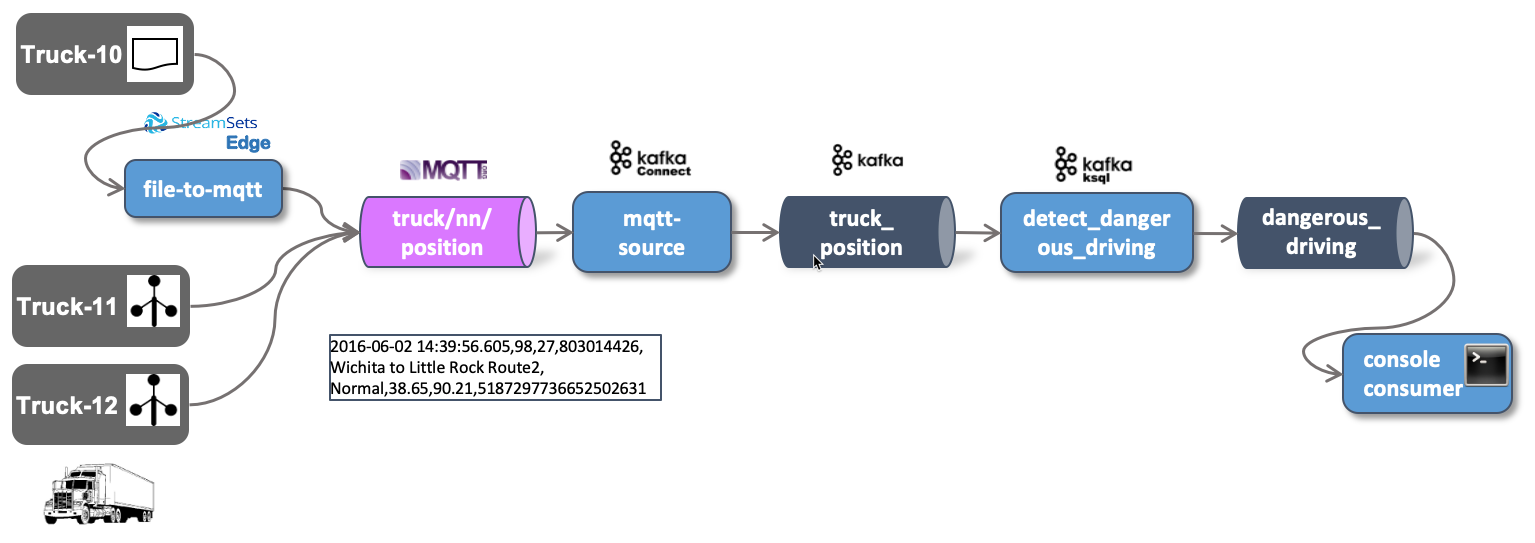
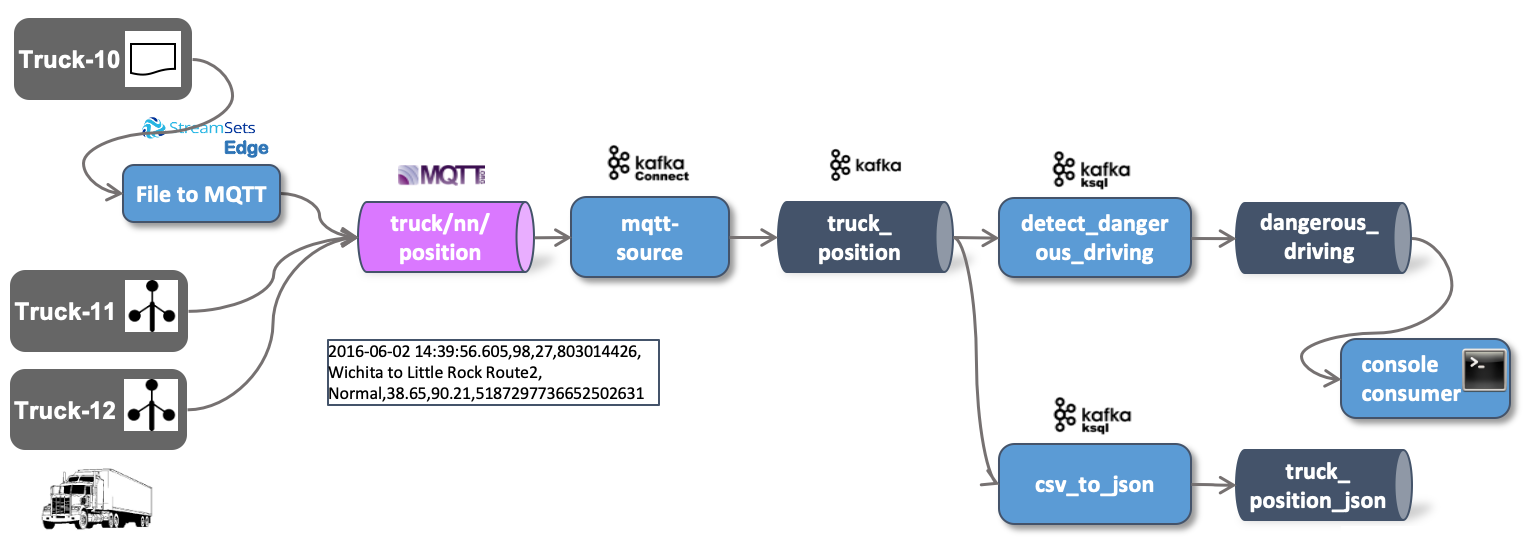
update

diff --git a/05c-stream-processing-using-ksql/README.md b/05c-stream-processing-using-ksql/README.md
@@ -1,10 +1,12 @@
-# IoT Data Ingestion - Stream Processing using ksqlDB
+# IoT Data Ingestion and Analytics - Stream Processing using ksqlDB
 
 With the truck data continuously ingested into the `truck_movement` topic, let's now perform some stream processing on the data.
  
 There are many possible solutions for performing analytics directly on the event stream. From the Kafka ecosystem, we can either use Kafka Streams or ksqlDB, a SQL abstraction on top of Kafka Streams. For this workshop we will be using KSQL. 
 
 ![Alt Image Text](./images/stream-processing-with-ksql-overview.png "Schema Registry UI")
+
+We will first use KSQL to change the format of the messages from CSV to JSON and write it to a new topic. With another KSQL statement we will detect drivers not driving around normally (detecting anomalies). 
 
 ## Connect to ksqlDB engine
  
@@ -58,9 +60,9 @@ ksqlDB can be used for doing ad-hoc queries as well as running continuous querie
 Before we can use a KSQL SELECT statement and consume data from a data stream, we have to give the data in the `truck_position` topic a "face", by defining the structure of the data. We do that using the `CREATE STREAM ...` command, as shown below: 
 
 ```
-DROP STREAM truck_position_s;
+DROP STREAM truck_position_csv_s;
 
-CREATE STREAM truck_position_s
+CREATE STREAM truck_position_csv_s
   (ts VARCHAR,
    truckId VARCHAR,
    driverId BIGINT,
@@ -73,7 +75,115 @@ CREATE STREAM truck_position_s
         value_format='DELIMITED');
 ```
 
-With the `truck_position_s` Stream in place, we can use the `SELECT` statement to query live messages while they are being sent to the Kafka topic. 
+We can see from the `value_format` clause that the data in the topic `truck_position` is delimited. 
+
+With the `truck_position_csv_s` Stream in place, we can use the `SELECT` statement to query live messages while they are being sent to the Kafka topic. 
+
+```
+SELECT * FROM truck_position_csv_s EMIT CHANGES;
+```
+
+`EMIT CHANGES` is necessary as it should be a _push query_ that produces a continuously updating stream of current vehicle position coordinates, not just the current state.
+
+The output we get should be similar as shown below:
+
+```
+ksql> select * from truck_position_csv_s emit changes;
++---------------+---------------+---------------+---------------+---------------+---------------+---------------+---------------+---------------+
+|ROWKEY         |TS             |TRUCKID        |DRIVERID       |ROUTEID        |EVENTTYPE      |LATITUDE       |LONGITUDE      |CORRELATIONID  |
++---------------+---------------+---------------+---------------+---------------+---------------+---------------+---------------+---------------+
+|"truck/30/|�15928902|30             |24             |137128276      |Normal         |40.76          |-88.77         |-18829803938785|
+|position0     |08758          |               |               |               |               |               |               |60716          |
+|"truck/12/|�15928902|12             |20             |1927624662     |Normal         |42.21          |-88.64         |-18829803938785|
+|position0     |08858          |               |               |               |               |               |               |60716          |
+|"truck/29/|�15928902|29             |18             |1565885487     |Normal         |39.76          |-90.14         |-18829803938785|
+|position0     |08878          |               |               |               |               |               |               |60716          |
+|"truck/21/|�15928902|21             |28             |160405074      |Normal         |39.76          |-90.14         |-18829803938785|
+|position0     |08938          |               |               |               |               |               |               |60716          |
+|"truck/10/|�15928902|10             |12             |160405074      |Normal         |35.1           |-90.07         |-18829803938785|
+|position0     |09148          |               |               |               |               |               |               |60716          |
+```
+
+As long as we don't stop the query, we get a constant stream of new truck messages.
+
+We can also see that we get a nicely formatted structure back. Compare that to the output of the console consumer or kafkacat. 
+
+```
+> kafkacat -b dataplatform -t truck_position -o end
+% Auto-selecting Consumer mode (use -P or -C to override)
+% Reached end of topic truck_position [0] at offset 16217
+% Reached end of topic truck_position [2] at offset 11528
+% Reached end of topic truck_position [1] at offset 9134
+�1592890510688,29,18,1565885487,Normal,39.77,-93.33,-1882980393878560716
+% Reached end of topic truck_position [3] at offset 13149
+% Reached end of topic truck_position [6] at offset 14709
+�1592890510718,35,16,987179512,Normal,41.72,-91.05,-1882980393878560716
+% Reached end of topic truck_position [0] at offset 16218
+% Reached end of topic truck_position [5] at offset 8971
+% Reached end of topic truck_position [4] at offset 17870
+% Reached end of topic truck_position [6] at offset 14710
+�1592890510827,22,10,1090292248,Normal,36.25,-95.69,-1882980393878560716
+�1592890510870,27,14,1594289134,Normal,34.96,-91.14,-1882980393878560716
+% Reached end of topic truck_position [1] at offset 9135
+�1592890510912,10,12,160405074,Normal,38.98,-93.2,-1882980393878560716
+% Reached end of topic truck_position [4] at offset 17871
+�1592890510947,25,23,160779139,Normal,41.56,-90.64,-1882980393878560716
+% Reached end of topic truck_position [2] at offset 11529
+�1592890510988,33,17,803014426,Normal,39.1,-94.44,-1882980393878560716
+% Reached end of topic truck_position [1] at offset 9136
+�1592890510992,30,24,137128276,Normal,41.74,-91.47,-1882980393878560716
+�1592890511027,14,15,1567254452,Normal,41.71,-91.32,-1882980393878560716
+% Reached end of topic truck_position [7] at offset 16060
+% Reached end of topic truck_position [6] at offset 14711
+�1592890511035,28,31,1594289134,Normal,41.48,-88.07,-1882980393878560716
+```
+
+### Transform the data in JSON
+
+With KSQL it is very easy to translate this into Json format. We just have to create a new stream using the `CREATE STREAM ...` statement using the same SQL statement and specify `JSON` as the `value_format`:
+
+```
+DROP STREAM IF EXISTS truck_position_json_s DELETE TOPIC;
+
+CREATE STREAM truck_position_json_s
+  WITH (kafka_topic='truck_position_json',
+        value_format='JSON', 
+        partitions=8, replicas=3)
+AS 
+SELECT * 
+FROM truck_position_csv_s
+EMIT CHANGES;
+```
+
+With the `CREATE STREAM` statement you don't have to create the topic first. It will be created based on the properties specified in the `WITH` clause. 
+
+With the new stream in place, we can now check the new topic `truck_position_json` to see that it contains in fact messages in JSON. 
+
+```
+> kafkacat -b dataplatform -t truck_position_json -o end -q
+{"TS":"\u0000\u0000\u0000\u0000\u0002�\u00011592891235888","TRUCKID":"21","DRIVERID":28,"ROUTEID":160405074,"EVENTTYPE":"Normal","LATITUDE":35.21,"LONGITUDE":-90.37,"CORRELATIONID":"-1882980393878560716"}
+{"TS":"\u0000\u0000\u0000\u0000\u0002�\u00011592891235998","TRUCKID":"22","DRIVERID":10,"ROUTEID":1090292248,"EVENTTYPE":"Normal","LATITUDE":42.25,"LONGITUDE":-88.96,"CORRELATIONID":"-1882980393878560716"}
+{"TS":"\u0000\u0000\u0000\u0000\u0002�\u00011592891236038","TRUCKID":"34","DRIVERID":22,"ROUTEID":1384345811,"EVENTTYPE":"Normal","LATITUDE":38.43,"LONGITUDE":-90.35,"CORRELATIONID":"-1882980393878560716"}
+{"TS":"\u0000\u0000\u0000\u0000\u0002�\u00011592891236138","TRUCKID":"20","DRIVERID":30,"ROUTEID":1198242881,"EVENTTYPE":"Normal","LATITUDE":41.72,"LONGITUDE":-91.05,"CORRELATIONID":"-1882980393878560716"}
+{"TS":"\u0000\u0000\u0000\u0000\u0002�\u00011592891236168","TRUCKID":"24","DRIVERID":32,"ROUTEID":1962261785,"EVENTTYPE":"Normal","LATITUDE":35.37,"LONGITUDE":-94.57,"CORRELATIONID":"-1882980393878560716"}
+```
+
+----
+**Note:** if you need to drop a STREAM you might get an `Cannot drop XXXX` error message:
+
+```
+Cannot drop TRUCK_POSITION_JSON_S.
+The following queries read from this source: [].
+The following queries write into this source: [CSAS_TRUCK_POSITION_JSON_S_9].
+You need to terminate them before dropping TRUCK_POSITION_JSON_S.
+```
+
+to solve the problem, just use the `TERMINATE` statement to stop the query(s) mentioned in the error message:
+
+```
+TERMINATE CSAS_TRUCK_POSITION_JSON_S_9;
+```
+---
 
 ### Using KSQL to find abnormal driver behaviour
 

diff --git a/07_stream-processing-using-spark/README.md b/07_stream-processing-using-spark/README.md
@@ -1,0 +1,176 @@
+# IoT Data Ingestion and Analytics - Stream Processing using Spark Structured Streaming
+
+With the truck data continuously ingested into the `truck_movement` topic, let's now perform some stream processing on the data.
+ 
+There are many possible solutions for performing analytics directly on the event stream. From the Kafka ecosystem, we can either use Kafka Streams or ksqlDB, a SQL abstraction on top of Kafka Streams. For this workshop we will be using KSQL. 
+
+![Alt Image Text](./images/stream-processing-with-spark-overview.png "Schema Registry UI")
+
+## Using Python
+
+### Define Schema for truck_position events/messages
+
+```python
+%pyspark
+from pyspark.sql.types import *
+
+truckPositionSchema = StructType().add("timestamp", TimestampType()).add("truckId",LongType()).add("driverId", LongType()).add("routeId", LongType()).add("eventType", StringType()).add("latitude", DoubleType()).add("longitude", DoubleType()).add("correlationId", StringType()) 
+```
+
+### Kafka Consumer
+
+```python
+rawDf = spark
+  .readStream
+  .format("kafka")
+  .option("kafka.bootstrap.servers", "kafka-1:19092,kafka-2:19093")
+  .option("subscribe", "truck_position")
+  .load()
+```
+
+### Show the schema of the raw Kafka message
+
+```python
+rawDf.printSchema
+```
+
+### Map to "truck_position" schema and extract event time (trunc to seconds)  
+```python
+%pyspark
+from pyspark.sql.functions import from_json
+
+jsonDf = rawDf.selectExpr("CAST(value AS string)")
+jsonDf = jsonDf.select(from_json(jsonDf.value, truckPositionSchema).alias("json")).selectExpr("json.*", "cast(cast (json.timestamp as double) / 1000 as timestamp) as eventTime")
+```
+
+### Show schema of data frame 
+```python
+%pyspark
+jsonDf.printSchema
+```
+
+### Run 1st query into in memory "table"
+
+```python
+%pyspark
+query1 = jsonDf.writeStream.format("memory").queryName("truck_position").start()
+```
+
+### Using Spark SQL to read from the in-memory "table"
+
+```python
+%pyspark
+spark.sql ("select * from truck_position").show()
+```
+
+or in Zeppelin using the %sql directive
+
+```sql
+%sql
+select * from truck_position
+
+```
+
+### Stop the query
+
+```python
+%pyspark
+query1.stop()
+```
+
+### Filter out normal events
+
+```python
+%pyspark
+jsonDf.printSchema
+jsonFilteredDf = jsonDf.where("json.eventType !='Normal'")
+```
+
+### Run 2nd query on filtered data into in memory "table"
+
+```python
+%pyspark
+query2 = jsonFilteredDf.writeStream.format("memory").queryName("filtered_truck_position").start()
+```
+
+### Use Spark SQL
+
+```python
+%pyspark
+spark.sql ("select * from filtered_truck_position2").show()  
+```
+
+### Stop 2nd query
+
+```python
+%pyspark
+query2.stop
+```
+
+### Run 3rd query - Write non-normal events to Kafka topic
+
+Create a new topic
+
+```
+docker exec -ti kafka-1 kafka-topics --create --zookeeper zookeeper-1:2181 --topic dangerous_driving_spark --partitions 8 --replication-factor 3
+```
+
+```python
+%pyspark
+query3 = jsonFilteredDf.selectExpr("to_json(struct(*)) AS value").writeStream.format("kafka").option("kafka.bootstrap.servers", "kafka-1:19092").option("topic","dangerous_driving_spark").option("checkpointLocation", "/tmp").start()    
+```
+
+### Stop 3rd query
+
+```python
+query3.stop
+```
+
+### Retrieve static driver information
+
+```python
+%pyspark
+val opts = Map(
+  "url" -> "jdbc:postgresql://postgresql/sample?user=sample&password=sample",
+  "driver" -> "org.postgresql.Driver",
+  "dbtable" -> "driver")
+driverRawDf = spark.read.format("jdbc").options(opts).load()  
+driverDf = driverRawDf.selectExpr("id as driverId", "first_name as firstName", "last_name as lastName")
+```
+
+
+## Using Scala
+
+### Define the Schema
+
+```scala
+import org.apache.spark.sql.types.StructType
+import org.apache.spark.sql.types.StringType
+import org.apache.spark.sql.types.DoubleType
+import org.apache.spark.sql.types.LongType
+import org.apache.spark.sql.types.TimestampType
+
+val truckPositionSchema = new StructType() 
+  .add("timestamp",  TimestampType) 
+  .add("truckId", LongType) 
+  .add("driverId", LongType) 
+  .add("routeId", LongType) 
+  .add("eventType", StringType) 
+  .add("latitude", DoubleType) 
+  .add("longitude", DoubleType) 
+  .add("correlationId", StringType) 
+```
+
+```scala
+val rawDf = spark
+  .readStream
+  .format("kafka")
+  .option("kafka.bootstrap.servers", "kafka-1:19092,kafka-2:19093")
+  .option("subscribe", "truck_position")
+  .load()
+```
+
+
+----
+
+[previous part](../05b-iot-data-ingestion-mqtt-to-kafka/README.md)	| 	[top](../05-iot-data-ingestion-and-analytics/README.md) 	| 	[next part](../05d-static-data-ingestion/README.md)

diff --git a/05a-iot-data-ingestion-into-mqtt/README.md b/05a-iot-data-ingestion-into-mqtt/README.md
@@ -1,4 +1,4 @@
-# IoT Data Ingestion - Sending to MQTT
+# IoT Data Ingestion and Analytics - Sending to MQTT
 
 In this part we will be ingesting the IoT data stream into MQTT first, so that it can be later consumed and moved to a central Kafka topic. The MQTT brokers would act as IoT Gateways, implemented decentrally, whereas the Kafka Topic later will be a central deployment. This is a scenario which makes a lot of sense in real-live for various reasons such as security, connectivity, more lightweight connections and others. 
 
@@ -30,7 +30,7 @@ You have to be in the `docker` folder of the dataplatform, where also the `docke
 docker run -v "${PWD}/data-transfer/logs:/out" --rm trivadis/iot-truck-simulator '-s' 'FILE' '-f' 'CSV' '-d' '2000' '-fs' '25' '-vf' '10' '-fpv'
 ```
 
-We only generate data for vehicle with id `10` into a file in the `/data-transfer/logs` folder using the **CSV** format.
+We only generate data for vehicle with id `10` into a file in the `/data-transfer/logs` folder using the **CSV** format. The flag `-fpv` specifies to write one file per vehicle. 
 
 You should see an output similar to the one below, signalling that messages are produced to MQTT. 
 
@@ -170,12 +170,12 @@ Now let's run the simulator for trucks with id 11 - 70.
 The MQTT broker is exposed on port `1883`. So let's run the following docker command in a new terminal window.
 
 ```
-docker run trivadis/iot-truck-simulator '-s' 'MQTT' '-h' $DOCKER_HOST_IP '-p' '1883' '-f' 'CSV' '-d' '2000' '-fs' '25' '-vf' '11-70' '-fpv'
+docker run trivadis/iot-truck-simulator '-s' 'MQTT' '-h' $DOCKER_HOST_IP '-p' '1883' '-f' 'CSV' '-d' '2000' '-fs' '25' '-vf' '11-70'
 ```
 
 We are also producing the data in **CSV** format to the broker running on the docker host on port 1883. 
 
-You should see an output similar to the one below, signaling that messages are produced to MQTT. 
+You should see an output similar to the one below, signalling that messages are produced to MQTT. 
 
 ```
 Number of Emitters is .....23

diff --git a/05d-static-data-ingestion/README.md b/05d-static-data-ingestion/README.md
@@ -1,4 +1,4 @@
-# IoT Data Ingestion - Ingesting and Joining Static Data to Stream
+# IoT Data Ingestion and Analytics - Ingesting and Joining Static Data to Stream
 
 So far we have ingested the truck data from MQTT to Kafka and detected dangerous driving behaviour. But the information only holds the `driverId` but no other information about the driver. 
 
@@ -308,3 +308,7 @@ and check the live stream to see the change.
 |1580450886238       |11                  |11                  |Slow Down Mickey    |Isaacson            |101                 |1962261785          |Overspeed           |40.38               |-89.17              |
 ...
 ```
+
+----
+
+[previous part](../05c-stream-processing-using-ksql/README.md)	| 	[top](../05-iot-data-ingestion-and-analytics/README.md) 	| 	[next part](../05e-stream-data-integration-with-s3/README.md)

diff --git a/05b-iot-data-ingestion-mqtt-to-kafka/README.md b/05b-iot-data-ingestion-mqtt-to-kafka/README.md
@@ -1,4 +1,4 @@
-# IoT Data Ingestion - Moving Data from MQTT to Kafka
+# IoT Data Ingestion and Analytics - Moving Data from MQTT to Kafka
 
 In this 2nd part of the workshop we we will be moving the data from MQTT into Kafka, so that it can be consumed using the Kafka console consumer, as a preparation for stream analytics to be done in a later part. The data has been sent to MQTT in the first part of this workshop. 
 

diff --git a/05e-stream-data-integration-with-s3/README.md b/05e-stream-data-integration-with-s3/README.md
@@ -143,3 +143,6 @@ gus@gusmacbook ~/Downloads> cat truck_position+0+0000000000.json
 "1559500997740,26,14,160405074,Normal,40.76,-88.77,8723575629839349139"
 ...
 ```
+----
+
+[previous part](../05d-static-data-ingestion/README.md)	| 	[top](../05-iot-data-ingestion-and-analytics/README.md) 	
